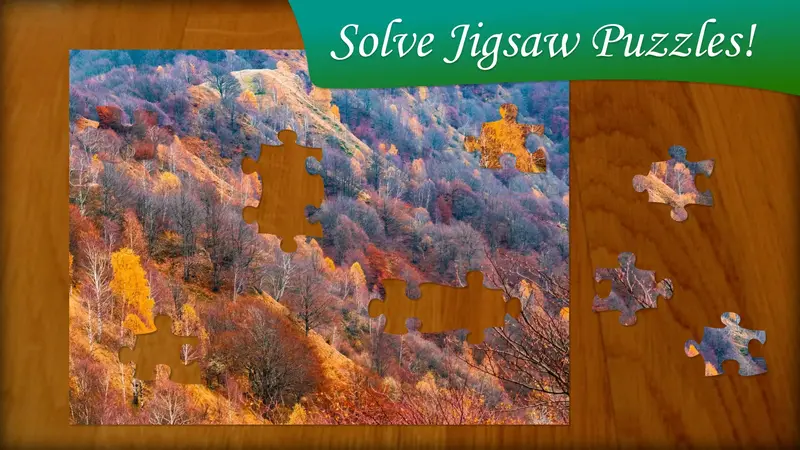
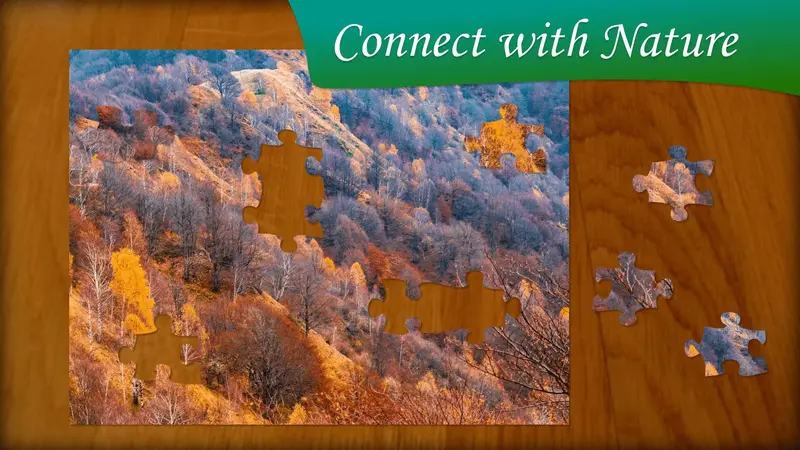
Updated JPN tagline and screenshot

Changed region(s): [[0.4062, 0.0311, 0.9688, 0.1556]]

diff --git a/jigsaw-puzzle-nature.html b/jigsaw-puzzle-nature.html
@@ -76,7 +76,7 @@
             </h1>
 
             <h2>
-                Discover the wonders of nature by solving jigsaw puzzles
+                Connect with Nature
             </h2>
             
             <p style="padding:16px;" align="center">
